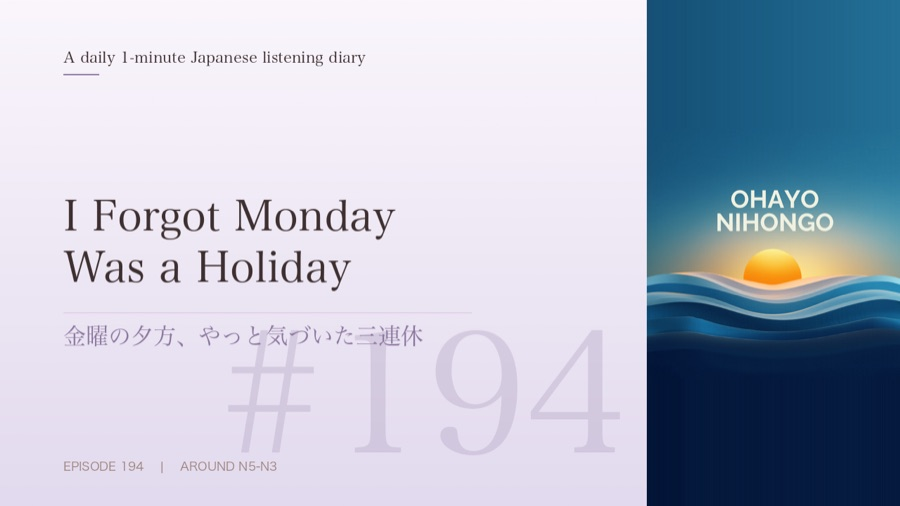
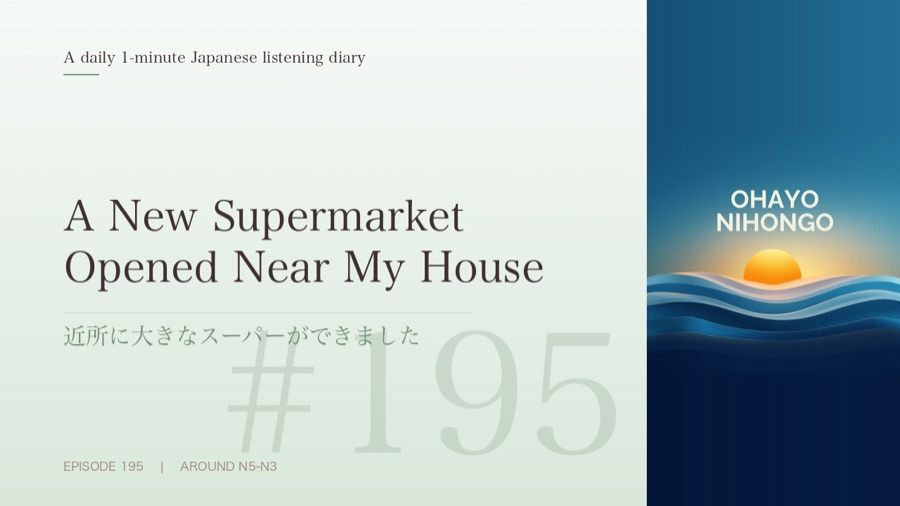
LP: today's diary → #195

Changed region(s): [[0.0622, 0.3854, 0.6222, 0.5929], [0.5911, 0.6522, 0.6844, 0.919], [0.0622, 0.6225, 0.4667, 0.6818]]

diff --git a/index.html b/index.html
@@ -740,9 +740,9 @@ footer .legal{color:rgba(255,255,255,.8);text-decoration:underline;text-underlin
       <div class="pv pv-pod pv-today">
     <!-- LP_EXCERPT_START -->
     <div class="lbl">From today's diary — きょうの いっぷん</div>
-    <div class="kanji">7月20日は海の日です。</div>
-    <div class="hira">しちがつはつかはうみのひです。</div>
-    <div class="en">I didn't realize Monday was a national holiday until Friday evening at 6 PM, when I finally noticed the office was unusually empty all day.</div>
+    <div class="kanji">最近、近所に大きめのスーパーができました。</div>
+    <div class="hira">さいきん、きんじょにおおきめのすーぱーができました。</div>
+    <div class="en">A new supermarket opened in my neighborhood, so I don't have to go far for fresh meat and fish anymore.</div>
     <!-- LP_EXCERPT_END -->
         <div class="pod-btns"><a class="pod-sp" href="https://open.spotify.com/show/0rQNvq7eaAACJxO58H0bxQ" target="_blank" rel="noopener" data-oa-event="listen_spotify"><span class="ico-play"></span>Spotify</a><a class="pod-yt" href="https://www.youtube.com/channel/UCkeY8BNsy60KhnYiJ5jteFA" target="_blank" rel="noopener" data-oa-event="watch_youtube"><span class="ico-play"></span>YouTube</a></div>
       </div>
